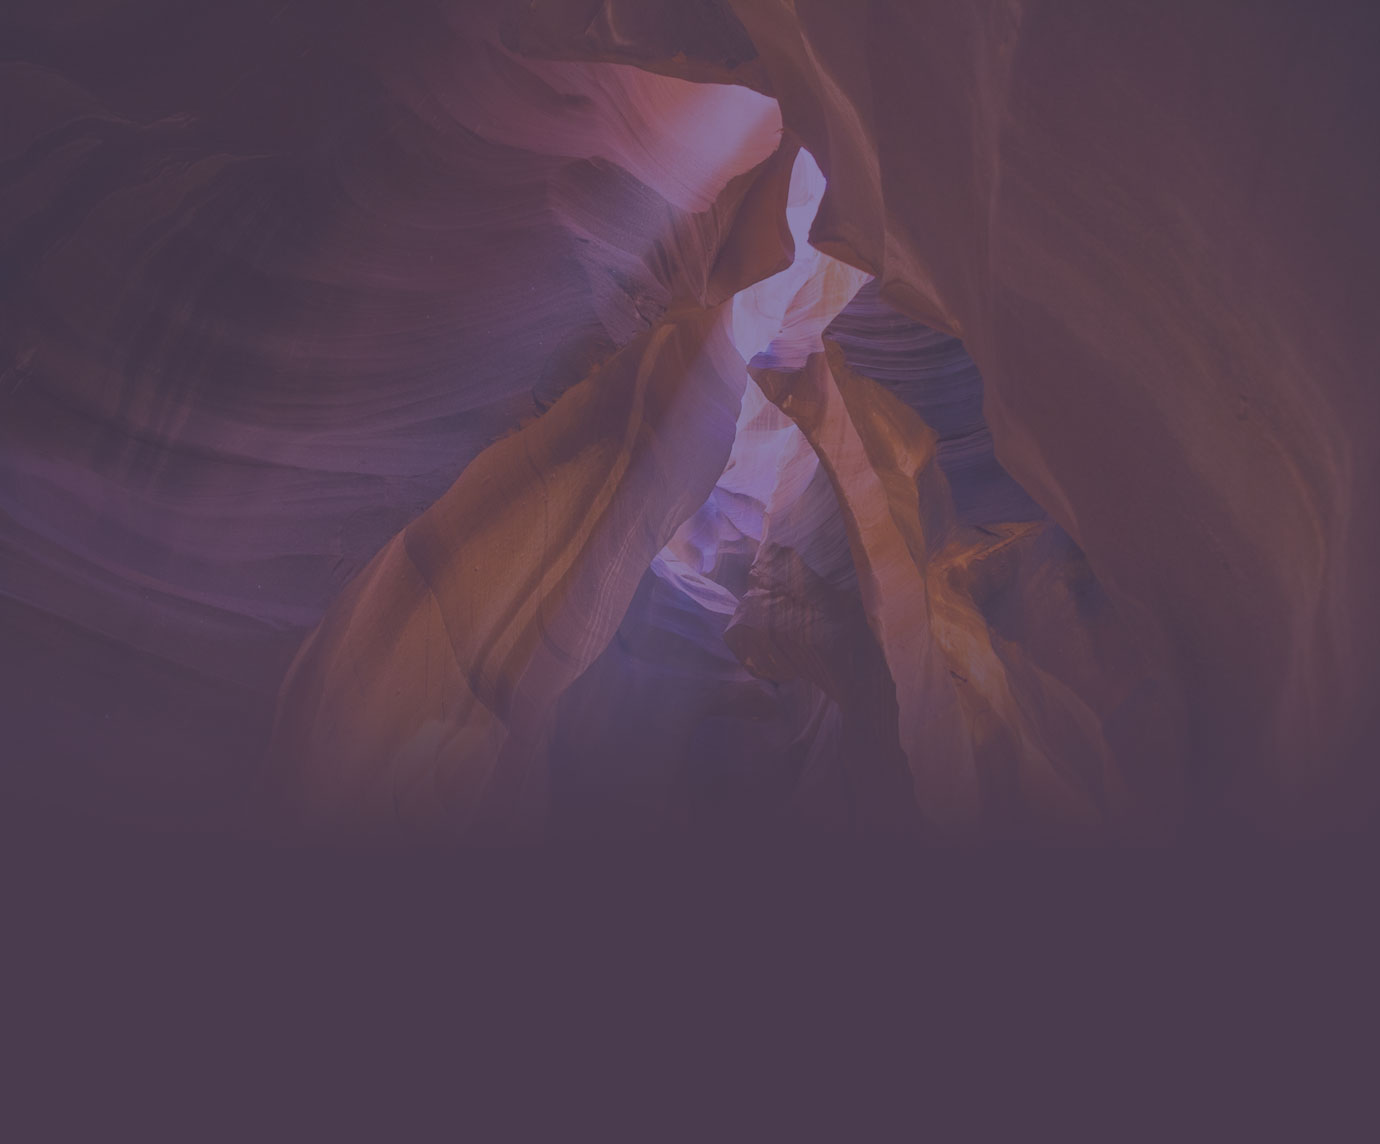
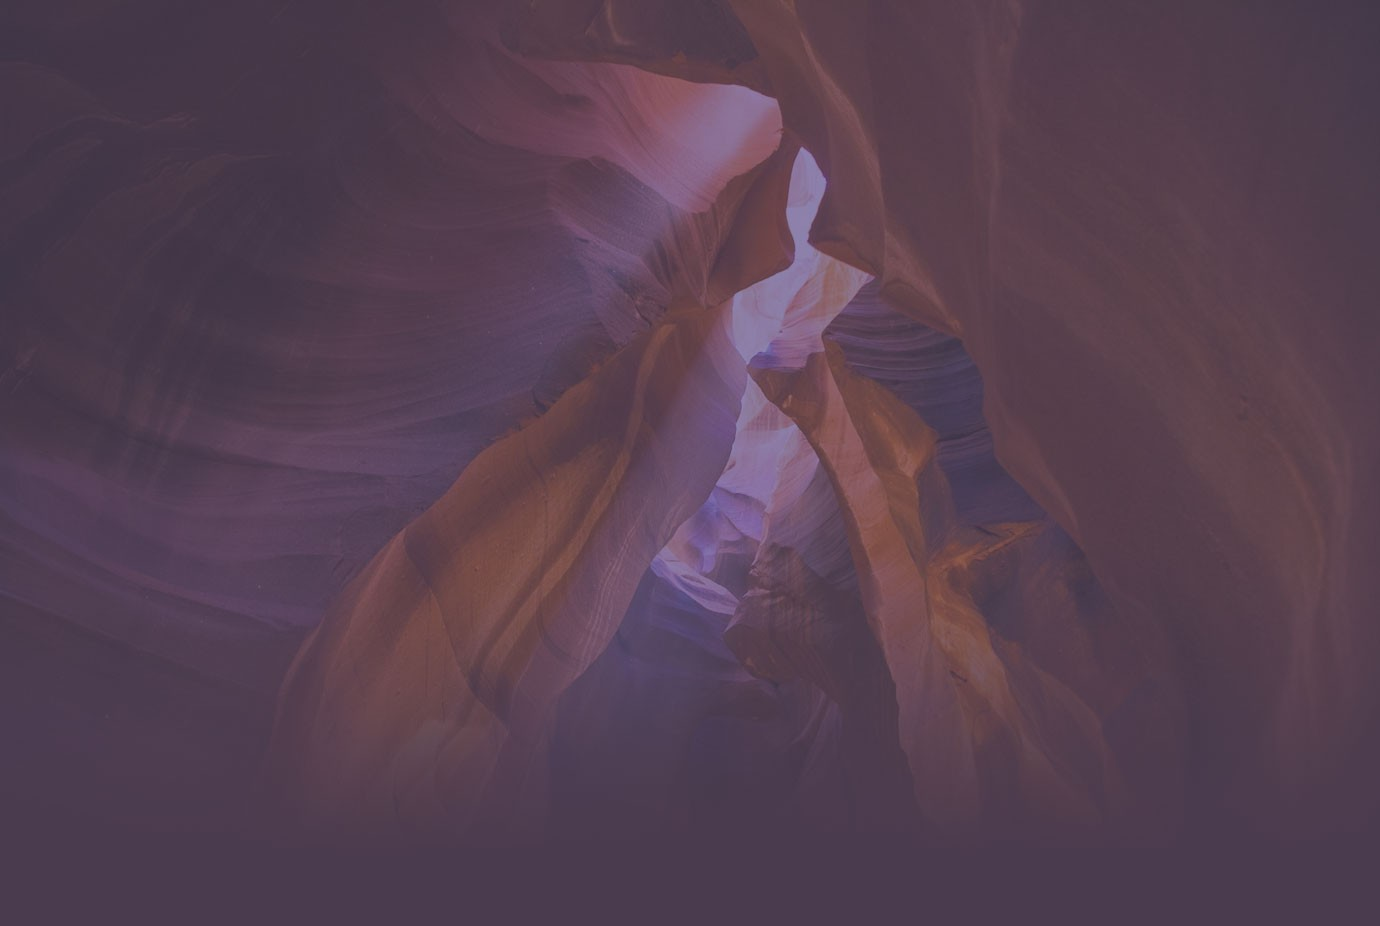
pricing

Changed region(s): [[0.2493, 0.0605, 0.7478, 0.8164], [0.4051, 0.121, 0.4674, 0.2117], [0.1558, 0.3629, 0.187, 0.3931]]

diff --git a/style.css b/style.css
@@ -7,10 +7,10 @@
   font-style: normal;
   src: url('https://fonts.gstatic.com/s/montserrat/v30/JTUSjIg1_i6t8kCHKm459Wlhyw.woff2');
 }
-.space{
+/* .space{
     width: 100%;
     height: 80px;
-}
+} */
 .body{
     font-family: 'Montserrat', sans-serif;
 }
@@ -198,9 +198,6 @@
     color: #716e79;
     margin-bottom: 26px;
 }
-.about-container{
-    /* width: 60%; */
-}
 
 /* *******info******** */
 
@@ -234,7 +231,7 @@
     background-repeat: no-repeat;
     background-size:cover;
     /* width: 100%; */
-    height: 100vh;
+    height: 75vh;
     padding: 100px;
 }
 .thead{
@@ -247,9 +244,20 @@
 .tcontainer-grid{
     display: grid;
     grid-template-columns: auto auto auto;
+    gap: 90px 50px;
+    align-items: center;
+    /* width: 100%; */
 }
 .tcard{
     text-align: center;
+    width: 90%;
+    /* margin: 30px 70px; */
+    /* margin-top: 80px; */
+}
+.tcard > p{
+    font-style: italic;
+    margin-top: 20px;
+    padding: 10px;
 }
 
 
@@ -257,4 +265,42 @@
 
 
 
-/* -------------- */
+/* -------pricing------- */
+
+#pricing{
+    color: #fff;
+    /* margin-top: 150px; */
+    background-image: url("images/banner-pricing.jpg");
+    background-position: center;
+    background-repeat: no-repeat;
+    background-size:cover;
+    /* width: 100%; */
+    height: 80vh;
+    padding: 100px;
+}
+.phead{
+    font-size: 24px;
+    text-transform: uppercase;
+    padding: 20px;
+}
+.pcontainer{
+    display: grid;
+    grid-template-columns: repeat(4,auto);
+    text-align: center;
+    gap: 0px 10px;
+}
+.pcard{
+    background-color: #ffffff15;
+    display: flex;
+    flex-direction: column;
+    justify-content: center;
+}
+.pline{
+    width: 60px;
+    height: 5px;
+    background-color: #8D81AC;
+    text-align: center;
+}
+.pcontent{
+    text-align: center;
+}

diff --git a/index.html b/index.html
@@ -139,8 +139,31 @@
     </div>
   </section>
 
-  <section id="pricing"></section>
-
+  <section id="pricing">
+    <h2 class="thead">Fork Subscription Pricing</h2>
+    <div class="pcontainer">
+      <div class="pcard">
+        <div class="phead">Students</div>
+        <div class="pcontent" style="color: #ffffff2e;">
+          <span class="price">$50</span>
+          <span class="pline">jj</span>
+        </div>
+      </div>
+      <div class="pcard">
+        <div class="phead">professional</div>
+        <div class="pcontent"></div>
+      </div>
+      <div class="pcard">
+        <div class="phead">agency</div>
+        <div class="pcontent"></div>
+      </div>
+      <div class="pcard">
+        <div class="phead">enterprise</div>
+        <div class="pcontent"></div>
+      </div>
+    </div>
+  </section>
+    
   <section id="subscribe"></section>
 
   <section class="footer"></section>
